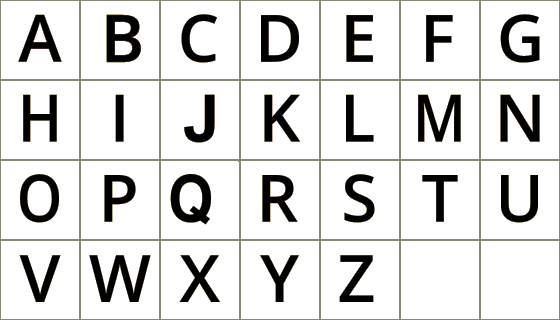
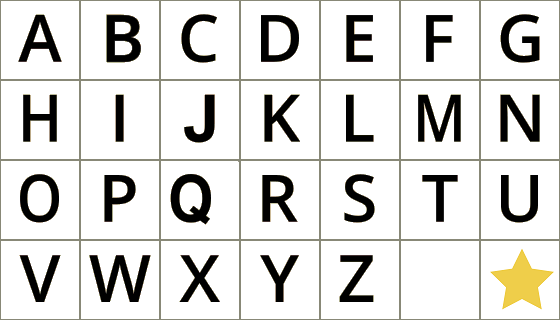
bonus

Changed region(s): [[0.8804, 0.7812, 1.0, 0.9688]]

diff --git a/game.js b/game.js
@@ -67,7 +67,7 @@ class playGame extends Phaser.Scene {
 
     this.answerTiles = this.add.group({
       defaultKey: "tiles",
-      defaultFrame: 27,
+      defaultFrame: 26,
       maxSize: 150,
       visible: false,
       active: false
@@ -90,17 +90,36 @@ class playGame extends Phaser.Scene {
     var finalCombo = wordCombos.filter(this.filterList)
     // console.log(finalCombo)
     var finalCombo1 = this.shuffle(finalCombo)
-    // console.log(finalCombo1)
+    console.log(finalCombo1.length)
+    if (finalCombo1.length > groups[onBook].wordMax) {
+
+    }
     //console.log(finalCombo1)
     this.words = finalCombo1.slice(0, groups[onBook].wordMax);
+    //console.log(this.words);
+    this.bonus = null
+    var extraCol = 0
+    if (finalCombo1.length > groups[onBook].wordMax) {
+      this.extra = finalCombo1.slice(groups[onBook].wordMax);
+      if (this.extra.length > 3) {
+        this.extra.sort();
+        //console.log(this.extra)
+        this.bonus = this.extra.pop()
+        console.log(this.bonus)
+        extraCol = 1;
+      }
+
+
+    }
     var board = Create(this.words);
-    // console.log(this.words);
+    //
 
     if (board.length > board[0].length) {
-      this.blockSize = game.config.width / board.length
+      this.blockSize = game.config.width / (board.length + extraCol)
     } else {
-      this.blockSize = game.config.width / board[0].length
+      this.blockSize = game.config.width / (board[0].length + extraCol)
     }
+
     var rand = Phaser.Math.Between(0, backs.length - 1)
     var back = this.add.image(0, 0, backs[rand]).setOrigin(0)
     back.displayWidth = game.config.width;
@@ -112,7 +131,21 @@ class playGame extends Phaser.Scene {
     //console.log(this.blockSize)
     this.createBoard(board);
 
+    if (this.bonus) {
+      this.bonusArray = []
+      for (var b = 0; b < this.bonus.length; b++) {
+        var bonusTile = this.add.image(825, 200 + b * this.blockSize, 'tiles', 27)
+        bonusTile.displayWidth = this.blockSize;
+        bonusTile.displayHeight = this.blockSize;
+        bonusTile.word = this.bonus
+        bonusTile.letter = this.bonus[b]
 
+        var ind = this.tileLetters.indexOf(bonusTile.letter)
+        console.log(ind)
+        bonusTile.index = ind
+        this.bonusArray.push(bonusTile)
+      }
+    }
 
     this.createKeys(base.length, base)
 
@@ -325,13 +358,29 @@ class playGame extends Phaser.Scene {
       });
 
 
+    } else if (answer == this.bonus) {
+      //found bonus word
+      for (var i = 0; i < this.bonusArray.length; i++) {
+        console.log(this.bonusArray[i].ind)
+        this.bonusArray[i].setFrame(this.bonusArray[i].index)
+        var tween = this.tweens.add({
+          targets: this.bonusArray[i],
+          scale: 1.3,
+          yoyo: true,
+          duration: 200,
+          delay: i * 50
+        })
+      }
+      this.bonusFound += this.bonusArray.length;
+      this.bonusText.setText(this.bonusFound)
     } else if (ScrabbleWordList.indexOf(answer) > -1) {
       //found bonus
       this.foundWords.push(answer)
-      this.bonusFound++;
+
 
       this.guessFakeText.setText(this.guess)
       this.guess = '';
+      this.bonusFound++;
       this.bonusText.setText(this.bonusFound)
       this.guessText.setText('');
       //animate guess word
@@ -394,6 +443,13 @@ class playGame extends Phaser.Scene {
     for (var i = 0; i < answer.length; i++) {
       var letter = coo[i]
       this.board[letter.y][letter.x].tile.setFrame(this.board[letter.y][letter.x].tile.index);
+      var tween = this.tweens.add({
+        targets: this.board[letter.y][letter.x].tile,
+        scale: 1.3,
+        yoyo: true,
+        duration: 200,
+        delay: i * 50
+      })
     }
 
 
@@ -484,7 +540,7 @@ class playGame extends Phaser.Scene {
       this.grid.push(gridT)
     }
     this.board = board
-    //console.log(this.grid)
+    console.log(this.grid)
 
     //this.patternSearch(this.grid, this.words[1])
   }
